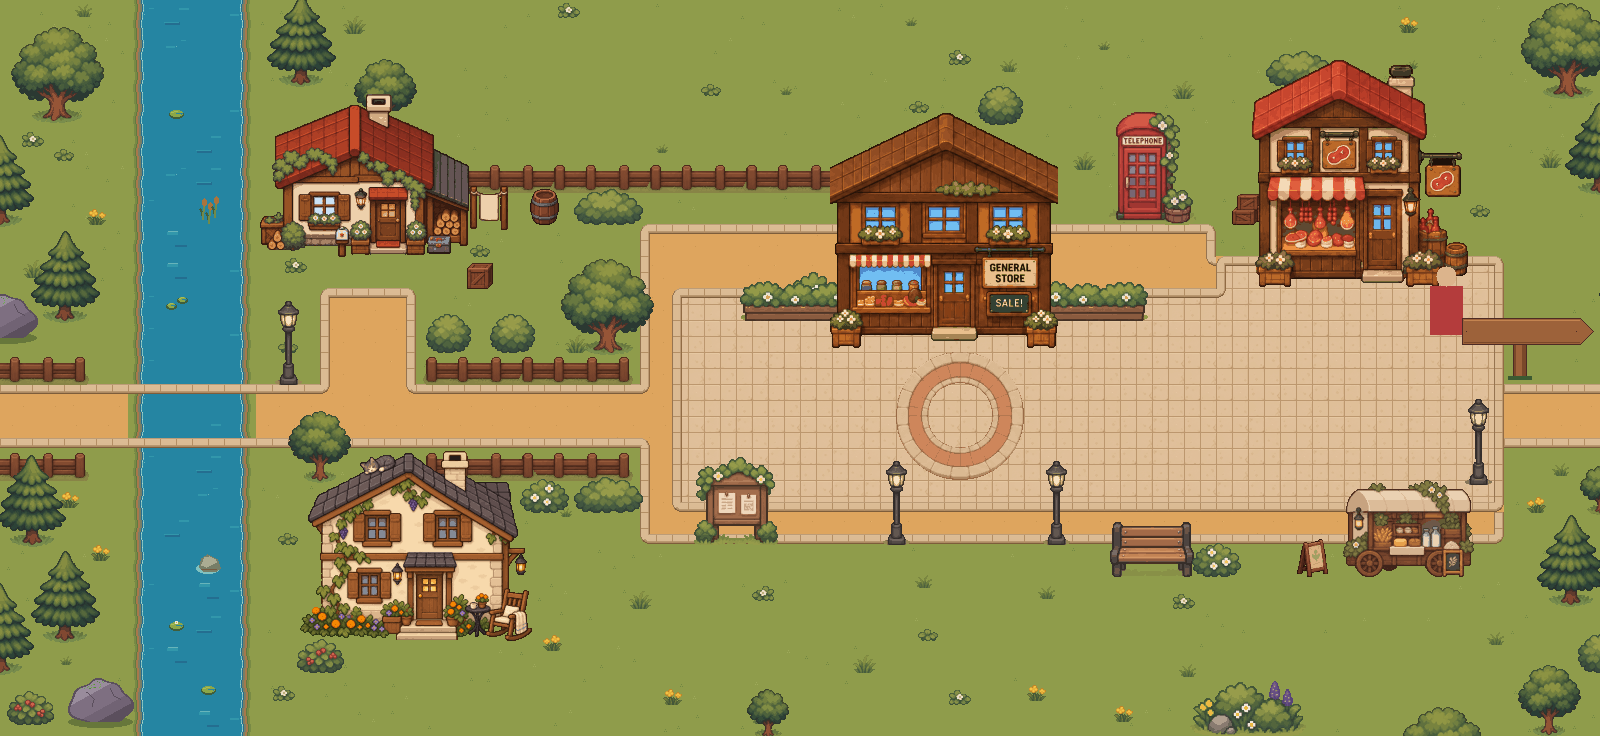
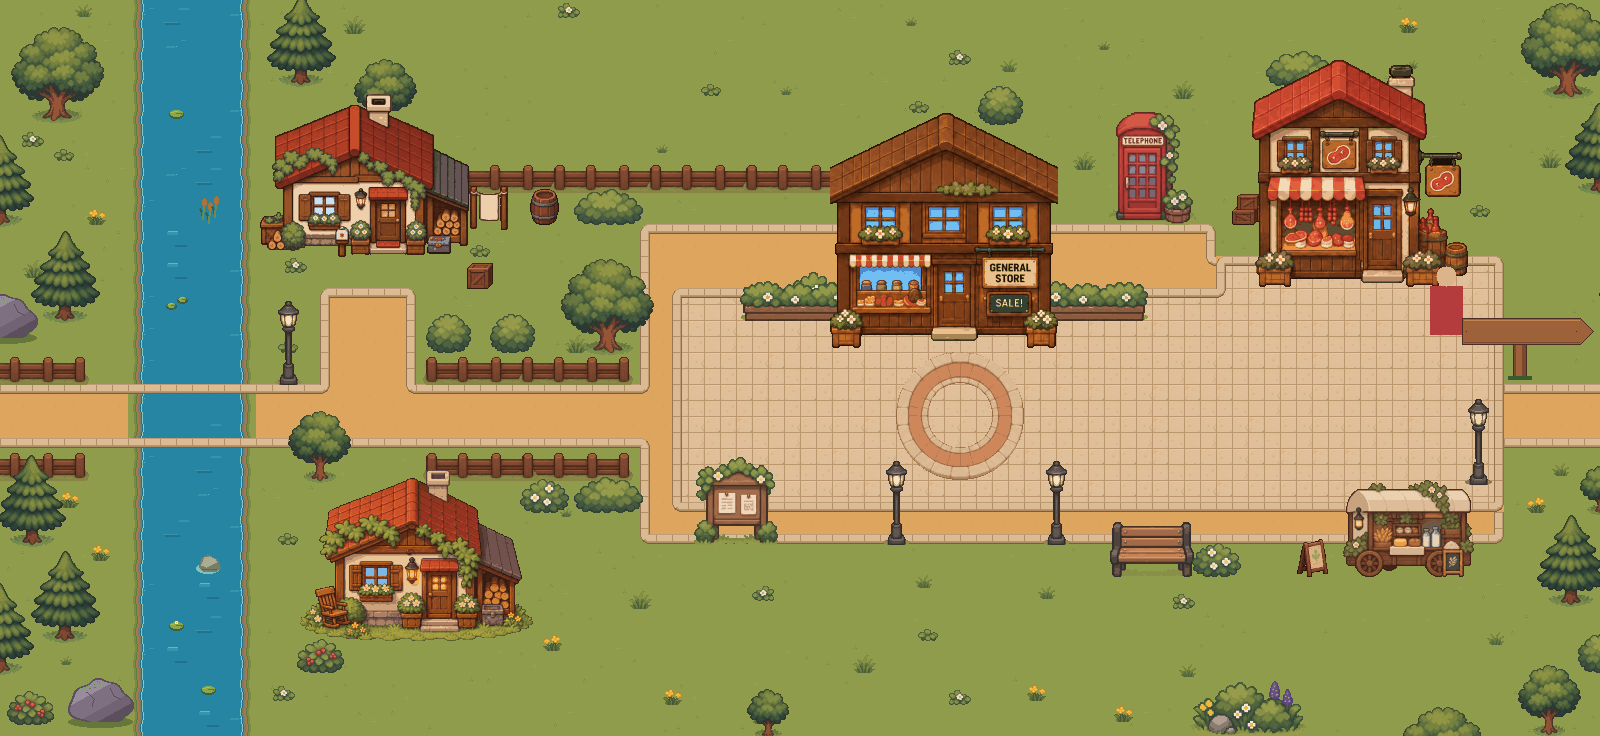
feat(village): новый дом Мэгги (v5)
Чёрный фон убран, картинка заменена на месте (spr_maggie_house), ширина как у прежнего
(233 px), низ по центру на том же месте, маска в тех же долях.

Changed region(s): [[0.1875, 0.5938, 0.3438, 0.875]]

diff --git a/tools/village/b08_houses_v5.py b/tools/village/b08_houses_v5.py
@@ -1,5 +1,5 @@
-# Партия 08 (v5): новые домики деревни — магазин Джошуа, мясная лавка Ивана (лист shops_v5.png) и дом Джастина
-# (justin_house_v5.png) из art_incoming/village/08_houses/v5. Фон у листов чёрный и непрозрачный: убирается
+# Партия 08 (v5): новые домики деревни — магазин Джошуа, мясная лавка Ивана (лист shops_v5.png), дом Джастина
+# (justin_house_v5.png) и дом Мэгги (maggie_house_v5.png) из art_incoming/village/08_houses/v5. Фон у листов чёрный и непрозрачный: убирается
 # заливкой от краёв (почти чёрные пиксели, связанные с краем), тёмные контуры внутри рисунка остаются.
 # Скамейки по бокам магазина в спрайт не входят (это отдельный объект obj_village2_bench).
 # Картинки заменяются на месте (те же спрайты и объекты), маска — в тех же долях, что у прежней;
@@ -8,9 +8,11 @@ import sys,os,re
 sys.path.insert(0,os.path.dirname(os.path.abspath(__file__))); import png,yy
 from b06_nature_convert import down,kmeans,clean,crop
 A,P=sys.argv[1],sys.argv[2]
+ONLY=sys.argv[3].split(',') if len(sys.argv)>3 else None   # заменить только эти спрайты
 SHOPS=0.44     # общий масштаб листа магазинов: магазин 227 px в ширину, как прежний
 JOBS={'spr_joshua_shop':('shops_v5.png',(191,0,709,10**6),SHOPS),'spr_ivan_butcher':('shops_v5.png',(900,0,1400,10**6),SHOPS),
-      'spr_justin_house':('justin_house_v5.png',(0,0,10**6,10**6),248/1052)}
+      'spr_justin_house':('justin_house_v5.png',(0,0,10**6,10**6),248/1052),
+      'spr_maggie_house':('maggie_house_v5.png',(0,0,10**6,10**6),232/1072)}
 def keyed(fn):
     w,h,p=png.read(f'{A}/{fn}'); bg=lambda c:max(c[:3])<=24
     seen=[[False]*w for _ in range(h)]; st=[(x,y) for x in range(w) for y in (0,h-1)]+[(x,y) for y in range(h) for x in (0,w-1)]
@@ -23,6 +25,7 @@ def keyed(fn):
 src={}
 rp=f'{P}/rooms/rm_village/rm_village.yy'; room=open(rp).read()
 for name,(fn,(x0,y0,x1,y1),f) in JOBS.items():
+    if ONLY and name not in ONLY: continue
     if fn not in src: src[fn]=keyed(fn)
     part=crop([r[x0:x1] for r in src[fn][y0:y1]]); pw,ph=len(part[0]),len(part)
     img=crop(clean(down(part,pw,ph,f),'trees'))
